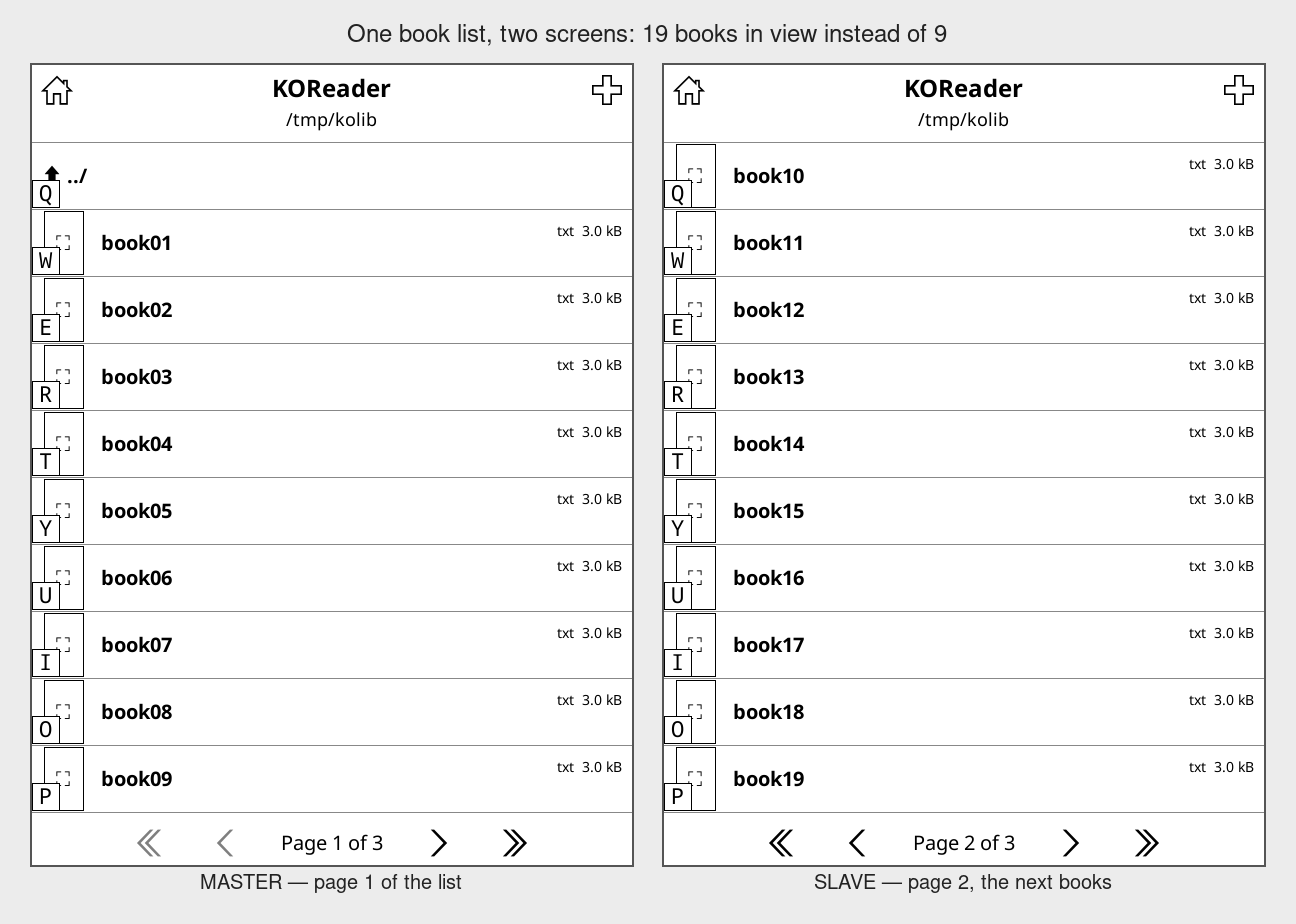
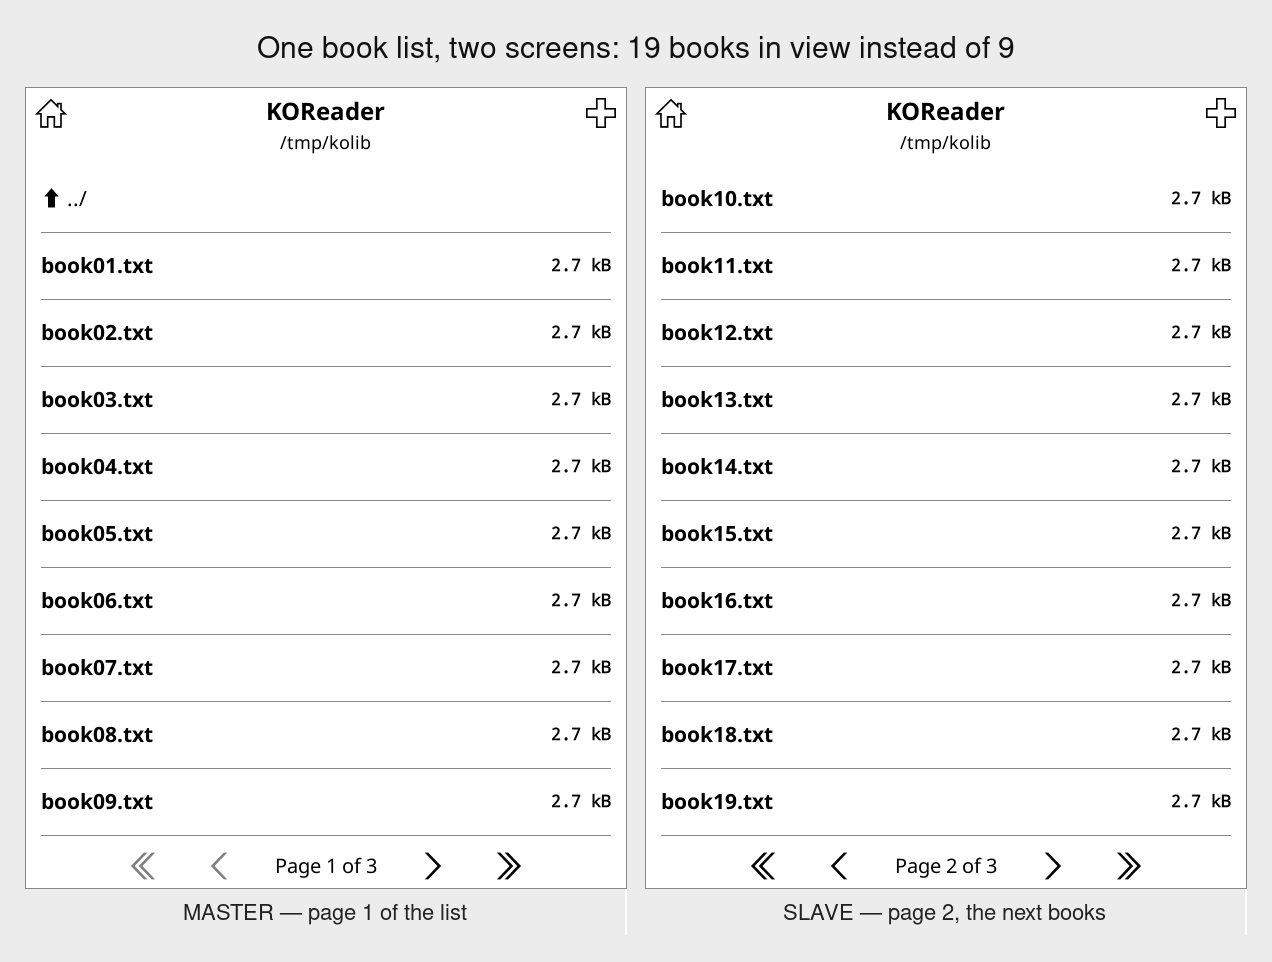
Retake the screenshots without the emulator's shortcut keys
The desktop build reports a keyboard, so KOReader draws a Q/W/E/R shortcut
key beside every row of the file browser. A Kindle has no keyboard and
draws none, which made four of the screenshots show something no reader of
this project will ever see on the device it is written for.

Retaken with `Menu.is_enable_shortcut` switched off through a user patch —
same scenes, same books, same page numbers. The reader and menu shots were
already free of them and are unchanged.

The patch is noted alongside the instructions for running two copies on a
desktop, since anyone comparing their own screen against these will
otherwise wonder where the letters came from.

Claude-Session: https://claude.ai/code/session_01KR4BqxWLnmB3ZRscvJFTtz

Changed region(s): [[0.0, 0.0303, 0.9811, 0.9697]]

diff --git a/README.md b/README.md
@@ -472,6 +472,16 @@ KO_MULTIUSER=1 HOME=/tmp/ko1 ./reader.lua /path/to/book.epub &
 KO_MULTIUSER=1 HOME=/tmp/ko2 ./reader.lua /path/to/book.epub &
 ```
 
+One difference from a Kindle worth knowing if you compare against the
+screenshots above: the desktop build reports a keyboard, so KOReader draws
+a Q/W/E/R shortcut key beside every row of the file browser. A Kindle has no
+keyboard and shows none. To match, drop this in
+`$HOME/.config/koreader/patches/2-no-item-shortcuts.lua`:
+
+```lua
+require("ui/widget/menu").is_enable_shortcut = false
+```
+
 Then pair them from the menu as usual, with the second one connecting to
 `127.0.0.1`. Setting `["autostart"] = true` and `["autostart_role"]` in
 `$HOME/.config/koreader/settings/duo.lua` skips the tapping.
